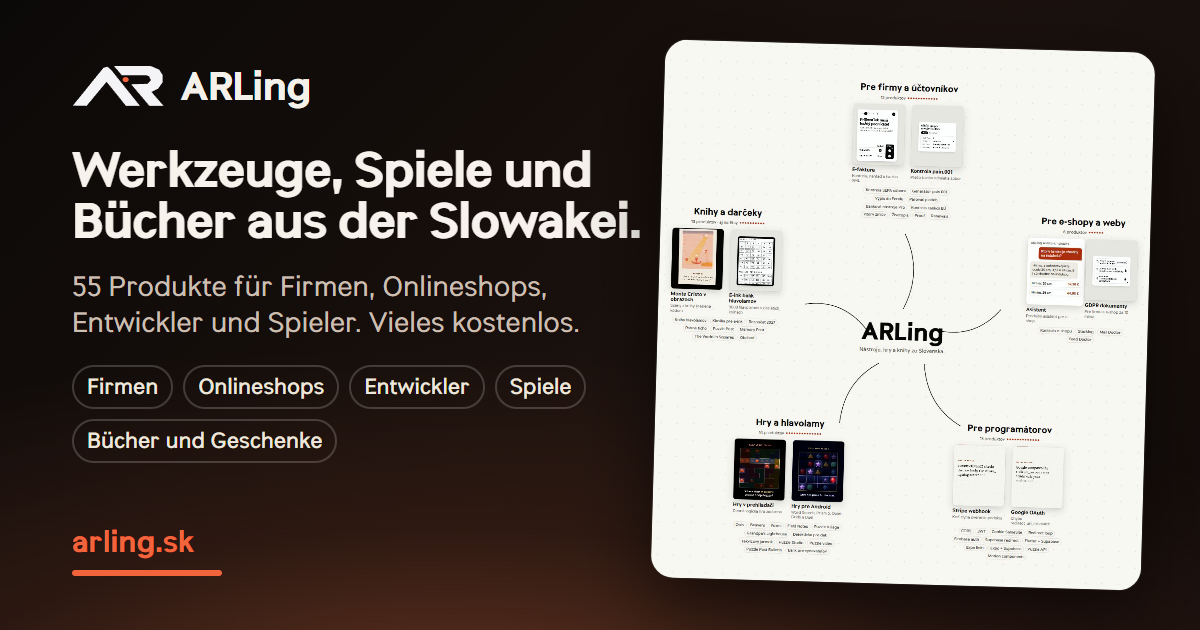
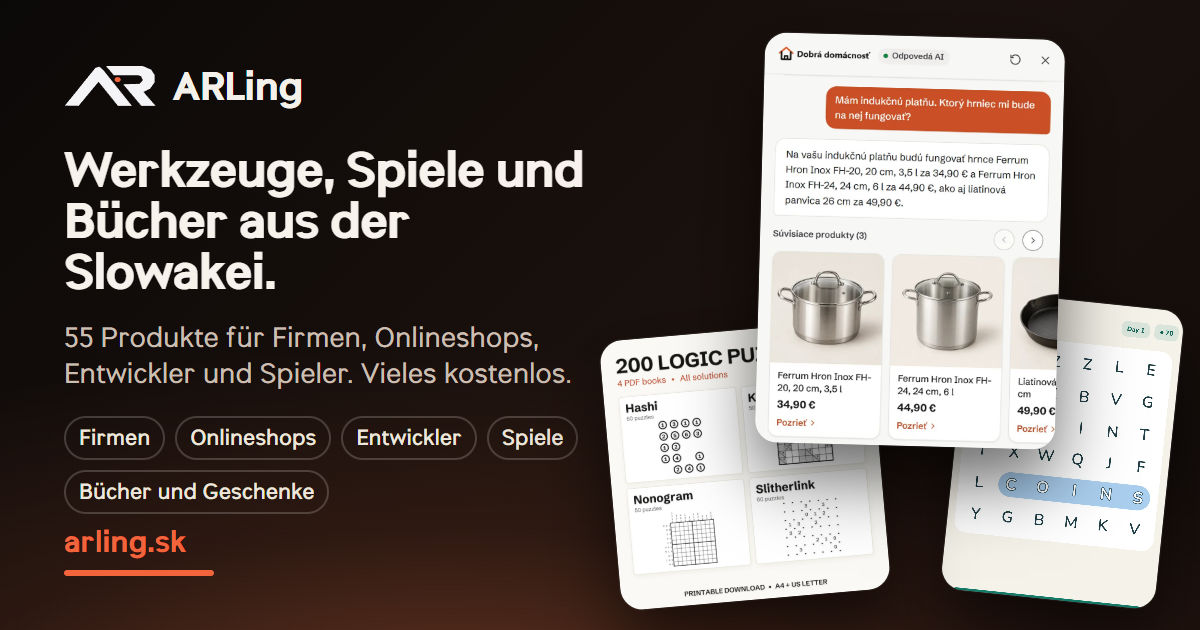
fable: nový náhľad odkazu arling.sk (veľké skutočné ukážky: Asistent, 200 hlavolamov, Word Search; tvoje písmo) SK EN DE, starý drobný og.png nahradený (Andrej: je to malé)

Changed region(s): [[0.0308, 0.0302, 0.9867, 0.9651], [0.0617, 0.0905, 0.2775, 0.181], [0.0308, 0.8444, 0.185, 0.9048]]

diff --git a/de/index.html b/de/index.html
@@ -11,7 +11,7 @@
 <link rel="alternate" hreflang="en" href="https://arling.sk/en/">
 <link rel="alternate" hreflang="de" href="https://arling.sk/de/">
 <link rel="alternate" hreflang="x-default" href="https://arling.sk/">
-<meta property="og:title" content="ARLing | Werkzeuge für Firmen und Shops, Rätsel und Spiele"><meta property="og:description" content="ARLing s. r. o. aus Bratislava: KI-Einkaufsassistent für Onlineshops, Prüfung von E-Rechnungen und Bankdateien, DSGVO-Dokumente, Rätselbücher und Logikspiele."><meta property="og:url" content="https://arling.sk/de/"><meta property="og:type" content="website"><meta property="og:image" content="https://arling.sk/og.png"><meta property="og:image:width" content="1200"><meta property="og:image:height" content="630"><meta property="og:image:alt" content="ARLing Logo mit Vorschau des Rätsels Hedgehogs und der E-Rechnungsprüfung"><meta name="twitter:card" content="summary_large_image"><meta name="twitter:image" content="https://arling.sk/og.png">
+<meta property="og:title" content="ARLing | Werkzeuge für Firmen und Shops, Rätsel und Spiele"><meta property="og:description" content="ARLing s. r. o. aus Bratislava: KI-Einkaufsassistent für Onlineshops, Prüfung von E-Rechnungen und Bankdateien, DSGVO-Dokumente, Rätselbücher und Logikspiele."><meta property="og:url" content="https://arling.sk/de/"><meta property="og:type" content="website"><meta property="og:image" content="https://arling.sk/og-arling-de.png"><meta property="og:image:width" content="1200"><meta property="og:image:height" content="630"><meta property="og:image:width" content="1200"><meta property="og:image:height" content="630"><meta property="og:image:alt" content="ARLing Logo mit Vorschau des Rätsels Hedgehogs und der E-Rechnungsprüfung"><meta name="twitter:card" content="summary_large_image"><meta name="twitter:image" content="https://arling.sk/og.png">
 <link rel="icon" href="/favicon.svg" type="image/svg+xml"><link rel="icon" href="/favicon.ico" sizes="48x48"><link rel="apple-touch-icon" href="/icon-180.png"><link rel="manifest" href="/manifest.json">
 <link rel="alternate" type="text/plain" href="https://arling.sk/llms.txt" title="llms.txt">
 <link rel="preload" href="/fonts/ARLingDrawText-500-700.woff2?v=f2703200" as="font" type="font/woff2" crossorigin>

diff --git a/en/index.html b/en/index.html
@@ -11,7 +11,7 @@
 <link rel="alternate" hreflang="en" href="https://arling.sk/en/">
 <link rel="alternate" hreflang="de" href="https://arling.sk/de/">
 <link rel="alternate" hreflang="x-default" href="https://arling.sk/">
-<meta property="og:title" content="ARLing | Tools for companies and shops, puzzles and games"><meta property="og:description" content="ARLing s. r. o. from Bratislava makes an AI shopping assistant, e-invoice and bank file tools, GDPR documents, puzzle books and daily logic games."><meta property="og:url" content="https://arling.sk/en/"><meta property="og:type" content="website"><meta property="og:image" content="https://arling.sk/og.png"><meta property="og:image:width" content="1200"><meta property="og:image:height" content="630"><meta property="og:image:alt" content="ARLing logo with previews of the Hedgehogs puzzle and the e-invoice check"><meta name="twitter:card" content="summary_large_image"><meta name="twitter:image" content="https://arling.sk/og.png">
+<meta property="og:title" content="ARLing | Tools for companies and shops, puzzles and games"><meta property="og:description" content="ARLing s. r. o. from Bratislava makes an AI shopping assistant, e-invoice and bank file tools, GDPR documents, puzzle books and daily logic games."><meta property="og:url" content="https://arling.sk/en/"><meta property="og:type" content="website"><meta property="og:image" content="https://arling.sk/og-arling-en.png"><meta property="og:image:width" content="1200"><meta property="og:image:height" content="630"><meta property="og:image:width" content="1200"><meta property="og:image:height" content="630"><meta property="og:image:alt" content="ARLing logo with previews of the Hedgehogs puzzle and the e-invoice check"><meta name="twitter:card" content="summary_large_image"><meta name="twitter:image" content="https://arling.sk/og.png">
 <link rel="icon" href="/favicon.svg" type="image/svg+xml"><link rel="icon" href="/favicon.ico" sizes="48x48"><link rel="apple-touch-icon" href="/icon-180.png"><link rel="manifest" href="/manifest.json">
 <link rel="alternate" type="text/plain" href="https://arling.sk/llms.txt" title="llms.txt">
 <link rel="preload" href="/fonts/ARLingDrawText-500-700.woff2?v=f2703200" as="font" type="font/woff2" crossorigin>

diff --git a/index.html b/index.html
@@ -11,7 +11,7 @@
 <link rel="alternate" hreflang="en" href="https://arling.sk/en/">
 <link rel="alternate" hreflang="de" href="https://arling.sk/de/">
 <link rel="alternate" hreflang="x-default" href="https://arling.sk/">
-<meta property="og:title" content="ARLing | Nástroje pre firmy a e-shopy, hlavolamy a hry"><meta property="og:description" content="ARLing s. r. o. z Bratislavy: AI asistent pre e-shopy, kontrola e-faktúr a bankových súborov, GDPR dokumenty, knihy hlavolamov a denné logické hry."><meta property="og:url" content="https://arling.sk/"><meta property="og:type" content="website"><meta property="og:image" content="https://arling.sk/og.png"><meta property="og:image:width" content="1200"><meta property="og:image:height" content="630"><meta property="og:image:alt" content="ARLing logo a náhľady hry Hedgehogs a kontroly e-faktúry"><meta name="twitter:card" content="summary_large_image"><meta name="twitter:image" content="https://arling.sk/og.png">
+<meta property="og:title" content="ARLing | Nástroje pre firmy a e-shopy, hlavolamy a hry"><meta property="og:description" content="ARLing s. r. o. z Bratislavy: AI asistent pre e-shopy, kontrola e-faktúr a bankových súborov, GDPR dokumenty, knihy hlavolamov a denné logické hry."><meta property="og:url" content="https://arling.sk/"><meta property="og:type" content="website"><meta property="og:image" content="https://arling.sk/og-arling-sk.png"><meta property="og:image:width" content="1200"><meta property="og:image:height" content="630"><meta property="og:image:width" content="1200"><meta property="og:image:height" content="630"><meta property="og:image:alt" content="ARLing logo a náhľady hry Hedgehogs a kontroly e-faktúry"><meta name="twitter:card" content="summary_large_image"><meta name="twitter:image" content="https://arling.sk/og.png">
 <link rel="icon" href="/favicon.svg" type="image/svg+xml"><link rel="icon" href="/favicon.ico" sizes="48x48"><link rel="apple-touch-icon" href="/icon-180.png"><link rel="manifest" href="/manifest.json">
 <link rel="alternate" type="text/plain" href="https://arling.sk/llms.txt" title="llms.txt">
 <link rel="preload" href="/fonts/ARLingDrawText-500-700.woff2?v=f2703200" as="font" type="font/woff2" crossorigin>
